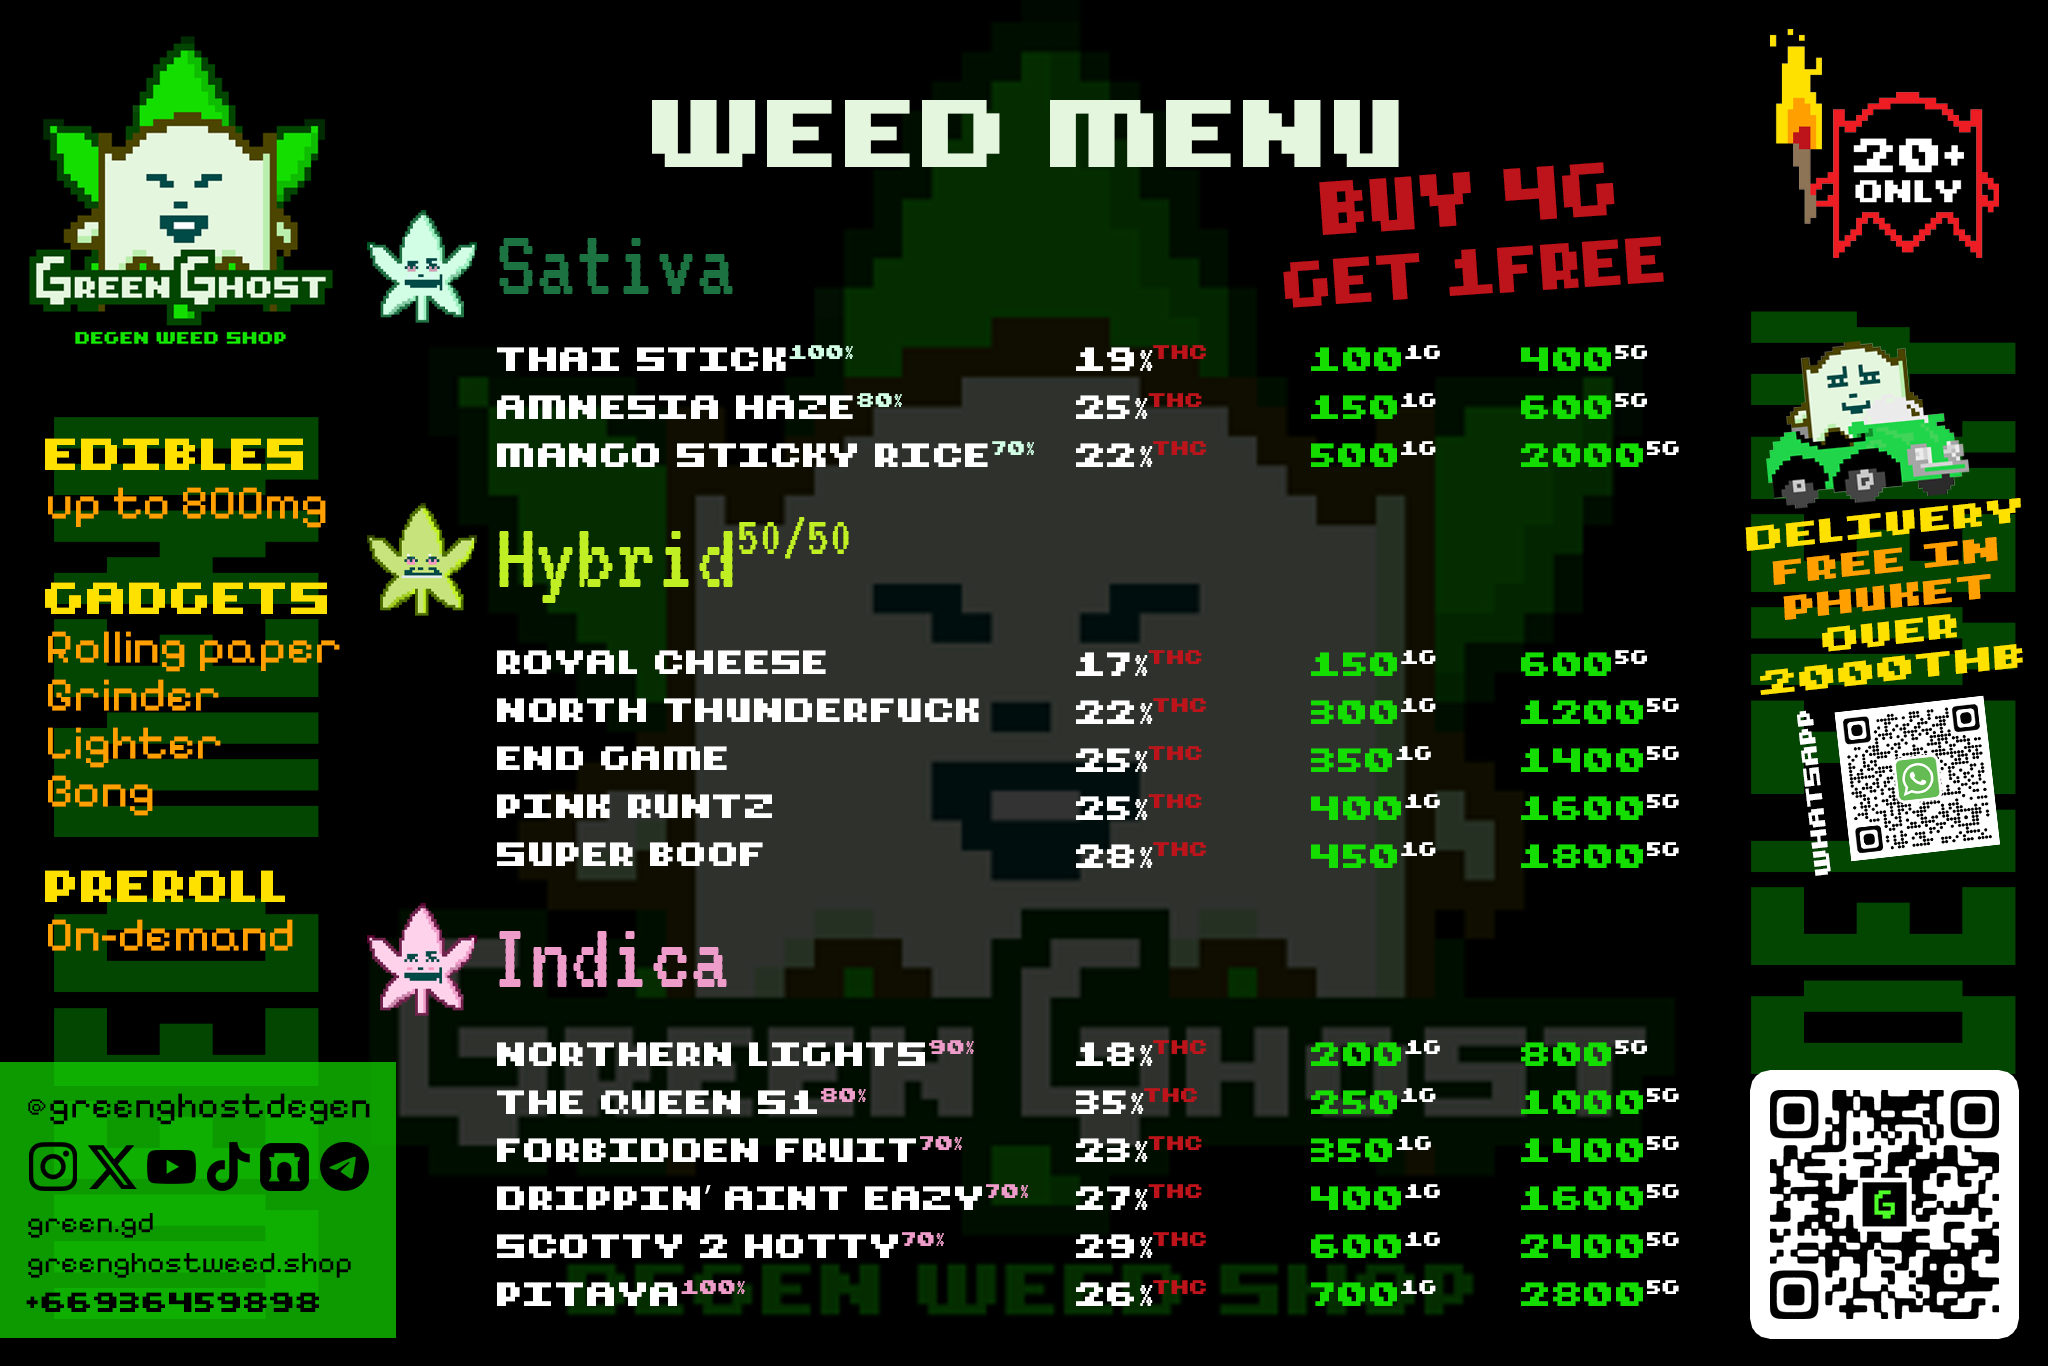
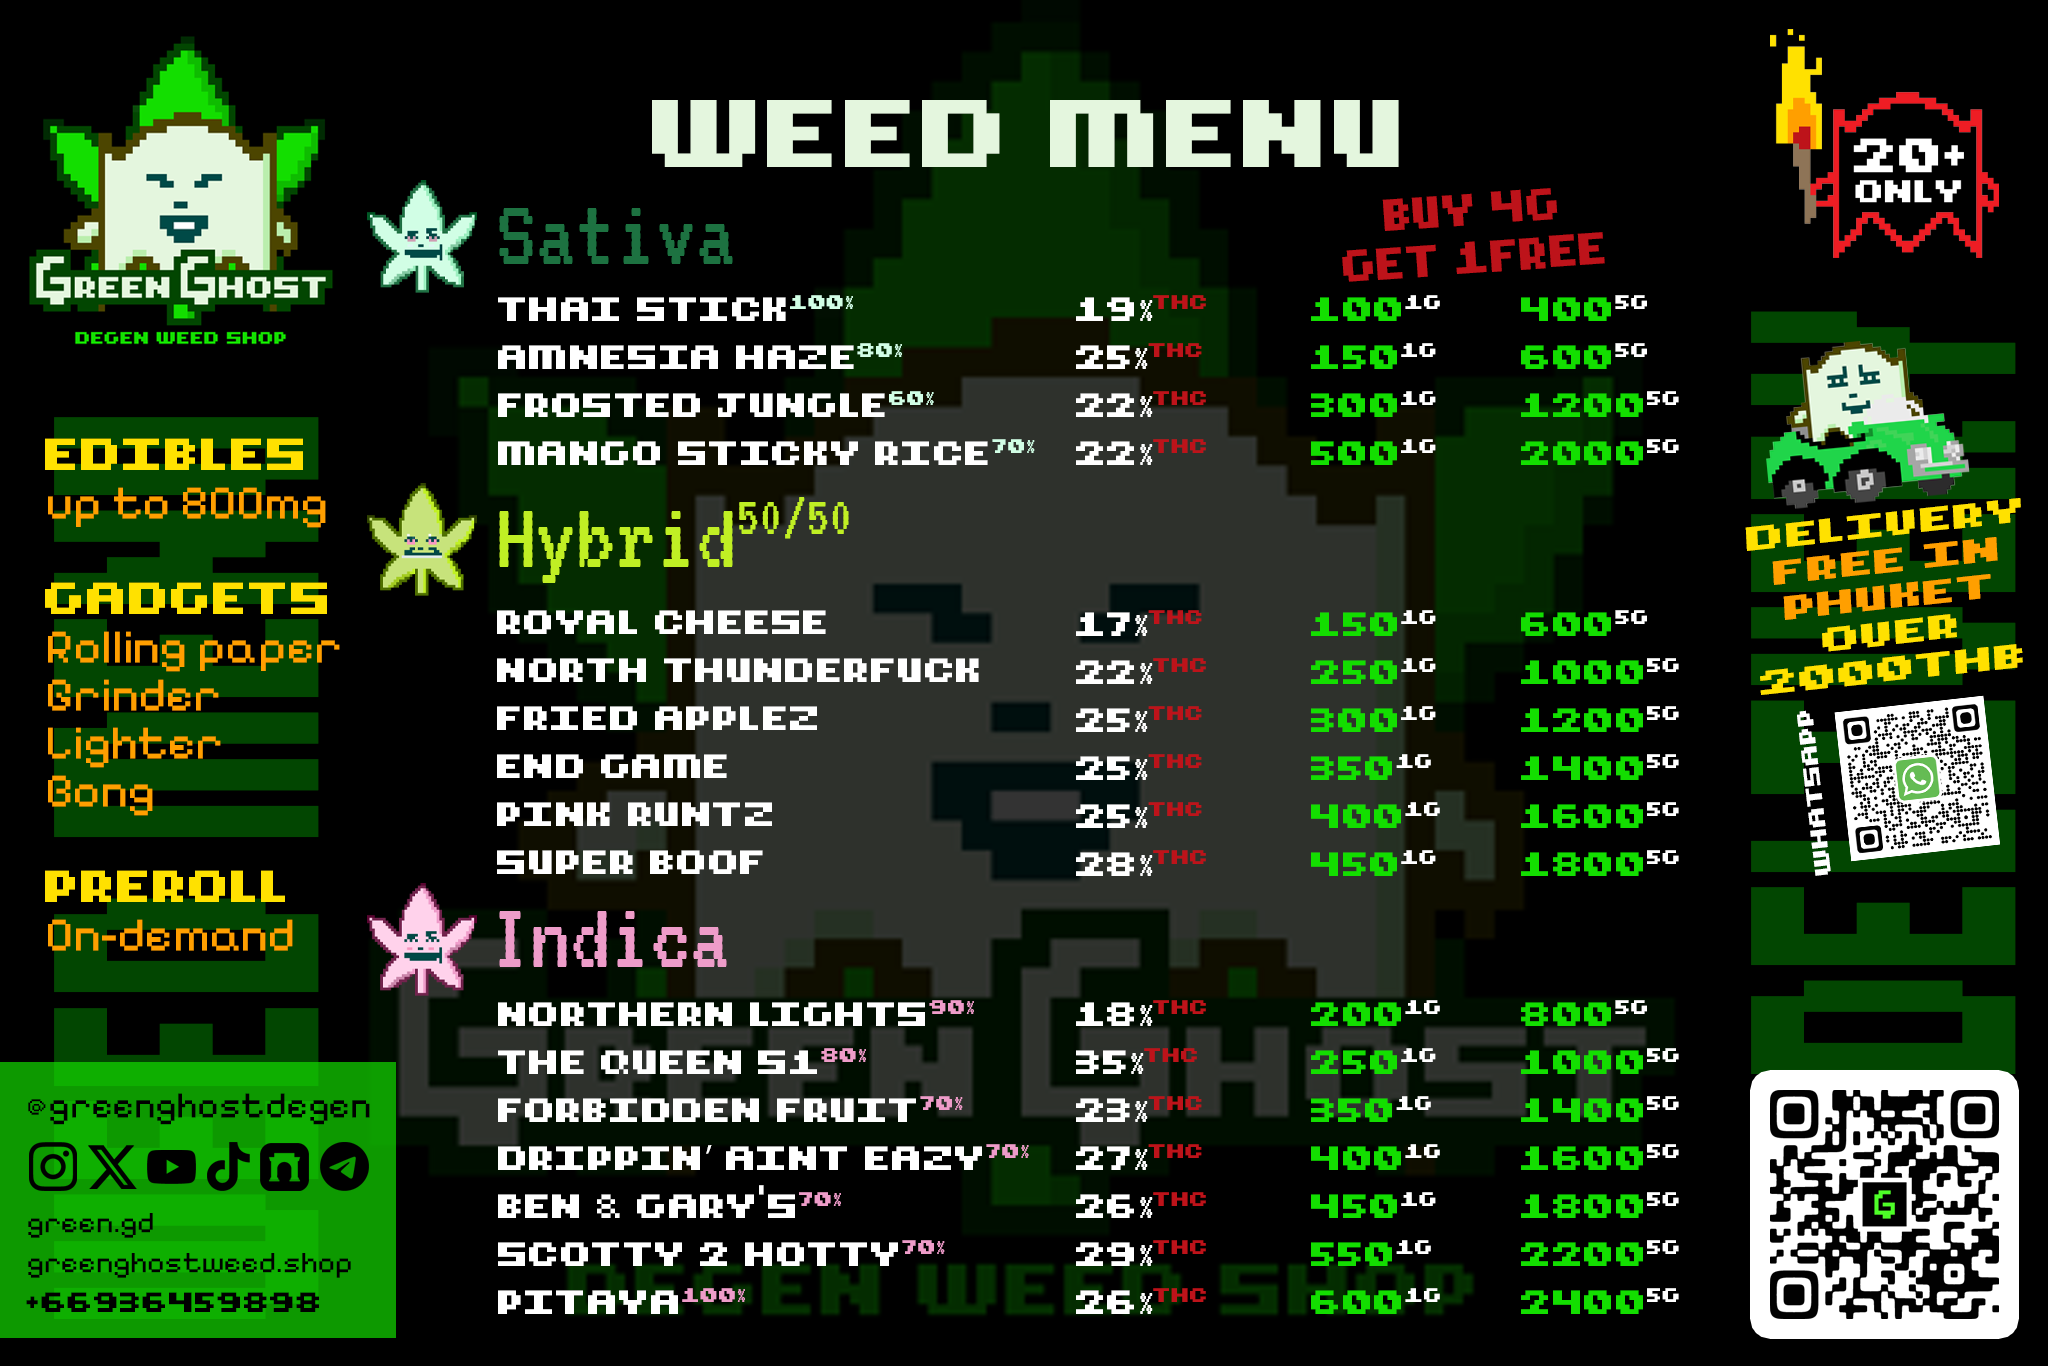
Update menu

diff --git a/config/buds.ts b/config/buds.ts
@@ -82,6 +82,35 @@ export const buds: Bud[] = [
     source: 'https://www.allbud.com/marijuana-strains/hybrid/royal-cheese',
   },
   {
+    slug: 'fried-applez',
+    name: 'Fried Applez',
+    price: 300,
+    dominance: 'Hybrid',
+    indica: '50',
+    sativa: '50',
+    THC: '25',
+    CBD: '0',
+    effects: 'Relaxing, Uplifted, Euphoric',
+    relieves: 'Insomnia, Pain, Stress',
+    grower: 'Green Ghost',
+    growerSlug: '/',
+    environment: 'Organic Greenhouse',
+    grade: 'AAA Grade',
+    quantity: 78,
+    origin: 'Phuket',
+    description:
+      "Fried Applez is a remarkable hybrid cannabis strain known for its delightful combination of flavors and potent effects. With a THC content of around 25%, this strain offers a powerful and well-rounded experience for both recreational and medicinal users. The buds of Fried Applez are dense and coated in a thick layer of resin, giving them a frosty appearance. Their vibrant green color is complemented by subtle hints of amber and orange pistils, making them visually striking. The aroma is a complex blend of sweet and fruity notes, reminiscent of freshly picked apples with a hint of baked goods, enticing the senses from the moment you open the jar. \n\n When it comes to flavor, Fried Applez truly stands out. It delivers a rich, sweet taste that closely mirrors its aroma, with pronounced apple and dessert-like undertones. This makes each inhale smooth and enjoyable, leaving a pleasant aftertaste on the palate. The effects of Fried Applez are balanced, offering users a harmonious blend of cerebral and physical sensations. The high begins with an uplifting euphoria that sparks creativity and enhances mood, making it suitable for social gatherings or artistic endeavors. As the high progresses, it transitions into a calming body sensation, promoting relaxation without causing excessive sedation. \n\n Fried Applez is an excellent choice for those seeking relief from stress, anxiety, and mild pain. Its balanced nature makes it versatile for various activities, whether you want to unwind after a long day or need a little inspiration. The strain is also appreciated for its potential to ease insomnia, helping users achieve a restful night's sleep without the heavy couch-lock often associated with stronger indicas. Whether you're a seasoned cannabis enthusiast or a newcomer, Fried Applez offers a flavorful and potent experience that's both enjoyable and therapeutic.",
+    descSeo:
+      'Fried Applez is a hybrid strain with 25% THC, offering sweet apple and baked goods flavors. It provides a balanced, uplifting euphoria and calming relaxation.',
+    images: [
+      '/media/green-ghost-degen-weed-shop-strain-fried-applez-cover.webp',
+      '/media/green-ghost-degen-weed-shop-strain-fried-applez-cover.webp',
+      '/media/green-ghost-degen-weed-shop-strain-fried-applez-cover.webp',
+    ],
+    imgDesc: 'Green Ghost 🌿👻 Degen Weed Shop Fried Applez Strain',
+    source: 'undefined',
+  },
+  {
     slug: 'amnesia-haze',
     name: 'Amnesia Haze',
     price: 150,
@@ -109,6 +138,35 @@ export const buds: Bud[] = [
     ],
     imgDesc: 'Green Ghost 🌿👻 Degen Weed Shop Amnesia Haze Strain',
     source: 'https://www.leafly.com/strains/amnesia-haze',
+  },
+  {
+    slug: 'frosted-jungle',
+    name: 'Frosted Jungle',
+    price: 300,
+    dominance: 'Sativa',
+    indica: '40',
+    sativa: '60',
+    THC: '22',
+    CBD: '0',
+    effects: 'Uplifting, Creative, Energizing',
+    relieves: 'Stress, Fatigue, Anxiety',
+    grower: 'Green Ghost',
+    growerSlug: '',
+    environment: 'Outdoor',
+    grade: 'AAA Grade',
+    quantity: 99,
+    origin: 'Phuket',
+    description:
+      "Frosted Jungle is a sativa-dominant hybrid cannabis strain, celebrated for its distinct appearance and effects. The buds are dense and frosty, showcasing a stunning blend of green and purple hues, often with a sparkling layer of trichomes that hints at its potency. With THC levels of 22%, this strain delivers a robust experience while keeping CBD levels low, typically around 0.5%, ensuring a primarily psychoactive impact. The aroma of Frosted Jungle is a delightful mix of sweet, earthy, and slightly fruity notes, making it an attractive choice for those who appreciate a complex scent profile. \n\n The effects of Frosted Jungle are predominantly uplifting and energizing. Users report feelings of euphoria, enhanced creativity, and an overall sense of well-being, making it an excellent option for daytime use. This strain is also noted for its potential to alleviate stress and anxiety, providing a soothing yet invigorating experience that can help manage mood and promote focus. \n\n The exact genetics of Frosted Jungle remain somewhat mysterious, but it's believed to be a cross between a sativa-dominant strain and another unknown variety. Its lineage includes connections to strains like NYC Diesel and Strawberry Diesel, contributing to its rich and complex profile.",
+    descSeo:
+      'Frosted Jungle is a sativa-dominant hybrid with 22% THC. It features dense, frosty buds with sweet, earthy, and fruity aromas, providing uplifting and creative effects.',
+    images: [
+      '/media/green-ghost-degen-weed-shop-strain-frosted-jungle-cover.webp',
+      '/media/green-ghost-degen-weed-shop-strain-frosted-jungle-cover.webp',
+      '/media/green-ghost-degen-weed-shop-strain-frosted-jungle-cover.webp',
+    ],
+    imgDesc: 'Green Ghost 🌿👻 Degen Weed Shop Frosted Jungle Strain',
+    source: 'undefined',
   },
   {
     slug: 'northern-lights',
@@ -198,6 +256,35 @@ export const buds: Bud[] = [
     source: 'https://www.leafly.com/strains/drippin-aint-eazy',
   },
   {
+    slug: 'ben-garys',
+    name: "Ben & Gary's",
+    price: 450,
+    dominance: 'Indica',
+    indica: '70',
+    sativa: '30',
+    THC: '26',
+    CBD: '0',
+    effects: 'Euphoria, Relaxation, Creativity',
+    relieves: 'Stress, Pain, Insomnia',
+    grower: 'Green Ghost',
+    growerSlug: '',
+    environment: 'Indoor',
+    grade: 'AAAA Grade',
+    quantity: 50,
+    origin: 'Phuket',
+    description:
+      'Discover the delightful Ben & Gary\'s strain from Exotic Genetix, a tantalizing 70/30 Indica-dominant hybrid that brings a creamy, fruity experience reminiscent of berry ice cream and fizzy drinks. This unique strain results from the remarkable crossing of the Ben & Berries and Gary Poppins varieties, each contributing its own exceptional characteristics. \n\n Ben & Berries, an elite clone developed by Lumpy\'s Flowers, is a luscious combination of Apple Fritter and Reckless Rainbow. Its conical, forest-green buds are adorned with fine orange hairs and coated in a thick layer of crystalline white trichomes, promising a visually stunning experience. The flavor profile bursts with super sweet and sugary berry notes, complemented by fresh blueberries and spicy apples, all wrapped in soft hints of floral herbs. This strain is perfect for anyone seeking maximum fruity flavor. \n\n On the other hand, Gary Poppins is an indica-dominant hybrid derived from the renowned Red Runtz lineage. This strain showcases a unique Kool-Aid-like terpene profile, making it an intriguing choice for growers and enthusiasts alike. With its impressive yield and straightforward cultivation process, Ben & Gary\'s is a must-try for anyone looking to elevate their cannabis experience with truly unique aromas and flavors.',
+    descSeo:
+      'Experience Ben & Gary\'s by Exotic Genetix: a creamy, fruity strain with berry ice cream aromas and a delightful indica-dominant profile.',
+    images: [
+      '/media/green-ghost-degen-weed-shop-strain-ben-garys-cover.webp',
+      '/media/green-ghost-degen-weed-shop-strain-ben-garys-cover.webp',
+      '/media/green-ghost-degen-weed-shop-strain-ben-garys-cover.webp',
+    ],
+    imgDesc: "Green Ghost 🌿👻 Degen Weed Shop Ben & Gary's Strain",
+    source: 'undefined',
+  },
+  {
     slug: 'el-chapo-og',
     name: 'El Chapo OG',
     price: 1000,
@@ -258,7 +345,7 @@ export const buds: Bud[] = [
   {
     slug: 'scotty-2-hotty',
     name: 'Scotty 2 Hotty',
-    price: 600,
+    price: 550,
     dominance: 'Indica',
     indica: '70',
     sativa: '30',
@@ -287,7 +374,7 @@ export const buds: Bud[] = [
   {
     slug: 'pitaya',
     name: 'Pitaya',
-    price: 700,
+    price: 600,
     dominance: 'Indica',
     indica: '100',
     sativa: '0',
@@ -520,7 +607,7 @@ export const buds: Bud[] = [
   {
     slug: 'north-thunderfuck',
     name: 'North Thunderfuck',
-    price: 300,
+    price: 250,
     dominance: 'Hybrid',
     indica: '50',
     sativa: '50',

diff --git a/components/BestWeed.tsx b/components/BestWeed.tsx
@@ -5,8 +5,8 @@ import { buds } from '../config/buds';
 const selectedStrains = [
   'Scotty 2 Hotty',
   'Thai Stick',
-  'Forbidden Fruit',
   'Super Boof',
+  'The Queen S1',
   'Mango Sticky Rice',
 ];
 
